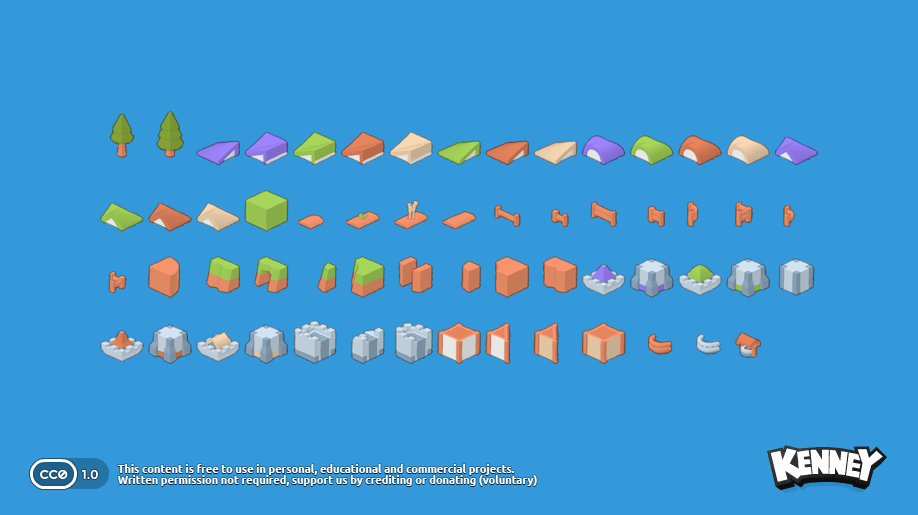
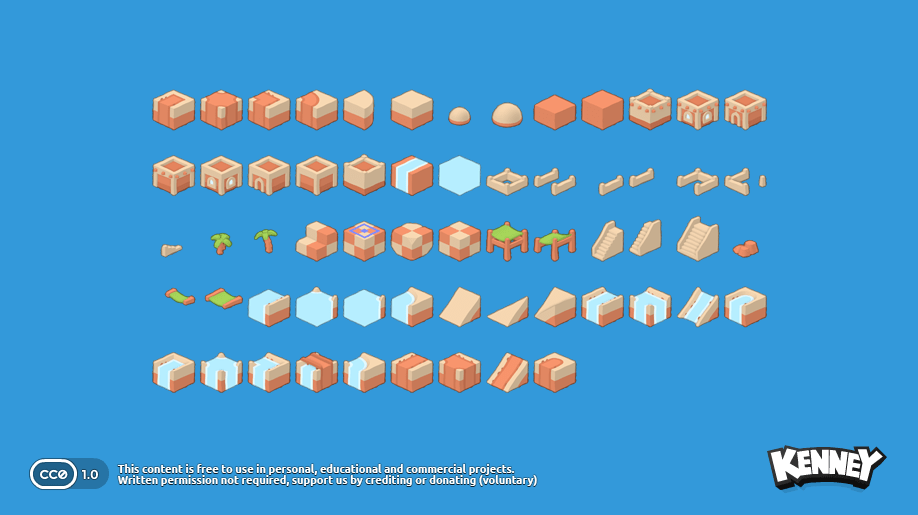
Add files via upload

Changed region(s): [[0.0915, 0.1553, 0.8845, 0.7767], [0.854, 0.4039, 0.8845, 0.435]]

diff --git a/map_tiles.tsx b/map_tiles.tsx
@@ -1,0 +1,250 @@
+<?xml version="1.0" encoding="UTF-8"?>
+<tileset version="1.4" tiledversion="1.4.3" name="Example" tilewidth="232" tileheight="110" tilecount="3" columns="0">
+ <tileoffset x="-12" y="6"/>
+ <grid orientation="orthogonal" width="1" height="1"/>
+<tile id='0'><image width='256' height='352' source='../Tiles/building_center_N.png'/></tile>
+<tile id='1'><image width='256' height='352' source='../Tiles/building_center_E.png'/></tile>
+<tile id='2'><image width='256' height='352' source='../Tiles/building_center_S.png'/></tile>
+<tile id='3'><image width='256' height='352' source='../Tiles/building_center_W.png'/></tile>
+<tile id='4'><image width='256' height='352' source='../Tiles/building_dark_center_N.png'/></tile>
+<tile id='5'><image width='256' height='352' source='../Tiles/building_dark_center_E.png'/></tile>
+<tile id='6'><image width='256' height='352' source='../Tiles/building_dark_center_S.png'/></tile>
+<tile id='7'><image width='256' height='352' source='../Tiles/building_dark_center_W.png'/></tile>
+<tile id='8'><image width='256' height='352' source='../Tiles/building_dark_center_door_N.png'/></tile>
+<tile id='9'><image width='256' height='352' source='../Tiles/building_dark_center_door_E.png'/></tile>
+<tile id='10'><image width='256' height='352' source='../Tiles/building_dark_center_door_S.png'/></tile>
+<tile id='11'><image width='256' height='352' source='../Tiles/building_dark_center_door_W.png'/></tile>
+<tile id='12'><image width='256' height='352' source='../Tiles/building_dark_center_windows_N.png'/></tile>
+<tile id='13'><image width='256' height='352' source='../Tiles/building_dark_center_windows_E.png'/></tile>
+<tile id='14'><image width='256' height='352' source='../Tiles/building_dark_center_windows_S.png'/></tile>
+<tile id='15'><image width='256' height='352' source='../Tiles/building_dark_center_windows_W.png'/></tile>
+<tile id='16'><image width='256' height='352' source='../Tiles/building_dark_sides_N.png'/></tile>
+<tile id='17'><image width='256' height='352' source='../Tiles/building_dark_sides_E.png'/></tile>
+<tile id='18'><image width='256' height='352' source='../Tiles/building_dark_sides_S.png'/></tile>
+<tile id='19'><image width='256' height='352' source='../Tiles/building_dark_sides_W.png'/></tile>
+<tile id='20'><image width='256' height='352' source='../Tiles/building_dark_sides_door_N.png'/></tile>
+<tile id='21'><image width='256' height='352' source='../Tiles/building_dark_sides_door_E.png'/></tile>
+<tile id='22'><image width='256' height='352' source='../Tiles/building_dark_sides_door_S.png'/></tile>
+<tile id='23'><image width='256' height='352' source='../Tiles/building_dark_sides_door_W.png'/></tile>
+<tile id='24'><image width='256' height='352' source='../Tiles/building_dark_sides_windows_N.png'/></tile>
+<tile id='25'><image width='256' height='352' source='../Tiles/building_dark_sides_windows_E.png'/></tile>
+<tile id='26'><image width='256' height='352' source='../Tiles/building_dark_sides_windows_S.png'/></tile>
+<tile id='27'><image width='256' height='352' source='../Tiles/building_dark_sides_windows_W.png'/></tile>
+<tile id='28'><image width='256' height='352' source='../Tiles/building_sides_N.png'/></tile>
+<tile id='29'><image width='256' height='352' source='../Tiles/building_sides_E.png'/></tile>
+<tile id='30'><image width='256' height='352' source='../Tiles/building_sides_S.png'/></tile>
+<tile id='31'><image width='256' height='352' source='../Tiles/building_sides_W.png'/></tile>
+<tile id='32'><image width='256' height='352' source='../Tiles/dirt_center_N.png'/></tile>
+<tile id='33'><image width='256' height='352' source='../Tiles/dirt_center_E.png'/></tile>
+<tile id='34'><image width='256' height='352' source='../Tiles/dirt_center_S.png'/></tile>
+<tile id='35'><image width='256' height='352' source='../Tiles/dirt_center_W.png'/></tile>
+<tile id='36'><image width='256' height='352' source='../Tiles/dirt_low_N.png'/></tile>
+<tile id='37'><image width='256' height='352' source='../Tiles/dirt_low_E.png'/></tile>
+<tile id='38'><image width='256' height='352' source='../Tiles/dirt_low_S.png'/></tile>
+<tile id='39'><image width='256' height='352' source='../Tiles/dirt_low_W.png'/></tile>
+<tile id='40'><image width='256' height='352' source='../Tiles/dome_N.png'/></tile>
+<tile id='41'><image width='256' height='352' source='../Tiles/dome_E.png'/></tile>
+<tile id='42'><image width='256' height='352' source='../Tiles/dome_S.png'/></tile>
+<tile id='43'><image width='256' height='352' source='../Tiles/dome_W.png'/></tile>
+<tile id='44'><image width='256' height='352' source='../Tiles/dome_small_N.png'/></tile>
+<tile id='45'><image width='256' height='352' source='../Tiles/dome_small_E.png'/></tile>
+<tile id='46'><image width='256' height='352' source='../Tiles/dome_small_S.png'/></tile>
+<tile id='47'><image width='256' height='352' source='../Tiles/dome_small_W.png'/></tile>
+<tile id='48'><image width='256' height='352' source='../Tiles/grass_center_N.png'/></tile>
+<tile id='49'><image width='256' height='352' source='../Tiles/grass_center_E.png'/></tile>
+<tile id='50'><image width='256' height='352' source='../Tiles/grass_center_S.png'/></tile>
+<tile id='51'><image width='256' height='352' source='../Tiles/grass_center_W.png'/></tile>
+<tile id='52'><image width='256' height='352' source='../Tiles/grass_corner_N.png'/></tile>
+<tile id='53'><image width='256' height='352' source='../Tiles/grass_corner_E.png'/></tile>
+<tile id='54'><image width='256' height='352' source='../Tiles/grass_corner_S.png'/></tile>
+<tile id='55'><image width='256' height='352' source='../Tiles/grass_corner_W.png'/></tile>
+<tile id='56'><image width='256' height='352' source='../Tiles/grass_path_N.png'/></tile>
+<tile id='57'><image width='256' height='352' source='../Tiles/grass_path_E.png'/></tile>
+<tile id='58'><image width='256' height='352' source='../Tiles/grass_path_S.png'/></tile>
+<tile id='59'><image width='256' height='352' source='../Tiles/grass_path_W.png'/></tile>
+<tile id='60'><image width='256' height='352' source='../Tiles/grass_pathBend_N.png'/></tile>
+<tile id='61'><image width='256' height='352' source='../Tiles/grass_pathBend_E.png'/></tile>
+<tile id='62'><image width='256' height='352' source='../Tiles/grass_pathBend_S.png'/></tile>
+<tile id='63'><image width='256' height='352' source='../Tiles/grass_pathBend_W.png'/></tile>
+<tile id='64'><image width='256' height='352' source='../Tiles/grass_pathCorner_N.png'/></tile>
+<tile id='65'><image width='256' height='352' source='../Tiles/grass_pathCorner_E.png'/></tile>
+<tile id='66'><image width='256' height='352' source='../Tiles/grass_pathCorner_S.png'/></tile>
+<tile id='67'><image width='256' height='352' source='../Tiles/grass_pathCorner_W.png'/></tile>
+<tile id='68'><image width='256' height='352' source='../Tiles/grass_pathCrossing_N.png'/></tile>
+<tile id='69'><image width='256' height='352' source='../Tiles/grass_pathCrossing_E.png'/></tile>
+<tile id='70'><image width='256' height='352' source='../Tiles/grass_pathCrossing_S.png'/></tile>
+<tile id='71'><image width='256' height='352' source='../Tiles/grass_pathCrossing_W.png'/></tile>
+<tile id='72'><image width='256' height='352' source='../Tiles/grass_pathEnd_N.png'/></tile>
+<tile id='73'><image width='256' height='352' source='../Tiles/grass_pathEnd_E.png'/></tile>
+<tile id='74'><image width='256' height='352' source='../Tiles/grass_pathEnd_S.png'/></tile>
+<tile id='75'><image width='256' height='352' source='../Tiles/grass_pathEnd_W.png'/></tile>
+<tile id='76'><image width='256' height='352' source='../Tiles/grass_pathEndSquare_N.png'/></tile>
+<tile id='77'><image width='256' height='352' source='../Tiles/grass_pathEndSquare_E.png'/></tile>
+<tile id='78'><image width='256' height='352' source='../Tiles/grass_pathEndSquare_S.png'/></tile>
+<tile id='79'><image width='256' height='352' source='../Tiles/grass_pathEndSquare_W.png'/></tile>
+<tile id='80'><image width='256' height='352' source='../Tiles/grass_pathSlope_N.png'/></tile>
+<tile id='81'><image width='256' height='352' source='../Tiles/grass_pathSlope_E.png'/></tile>
+<tile id='82'><image width='256' height='352' source='../Tiles/grass_pathSlope_S.png'/></tile>
+<tile id='83'><image width='256' height='352' source='../Tiles/grass_pathSlope_W.png'/></tile>
+<tile id='84'><image width='256' height='352' source='../Tiles/grass_pathSplit_N.png'/></tile>
+<tile id='85'><image width='256' height='352' source='../Tiles/grass_pathSplit_E.png'/></tile>
+<tile id='86'><image width='256' height='352' source='../Tiles/grass_pathSplit_S.png'/></tile>
+<tile id='87'><image width='256' height='352' source='../Tiles/grass_pathSplit_W.png'/></tile>
+<tile id='88'><image width='256' height='352' source='../Tiles/grass_river_N.png'/></tile>
+<tile id='89'><image width='256' height='352' source='../Tiles/grass_river_E.png'/></tile>
+<tile id='90'><image width='256' height='352' source='../Tiles/grass_river_S.png'/></tile>
+<tile id='91'><image width='256' height='352' source='../Tiles/grass_river_W.png'/></tile>
+<tile id='92'><image width='256' height='352' source='../Tiles/grass_riverBend_N.png'/></tile>
+<tile id='93'><image width='256' height='352' source='../Tiles/grass_riverBend_E.png'/></tile>
+<tile id='94'><image width='256' height='352' source='../Tiles/grass_riverBend_S.png'/></tile>
+<tile id='95'><image width='256' height='352' source='../Tiles/grass_riverBend_W.png'/></tile>
+<tile id='96'><image width='256' height='352' source='../Tiles/grass_riverBridge_N.png'/></tile>
+<tile id='97'><image width='256' height='352' source='../Tiles/grass_riverBridge_E.png'/></tile>
+<tile id='98'><image width='256' height='352' source='../Tiles/grass_riverBridge_S.png'/></tile>
+<tile id='99'><image width='256' height='352' source='../Tiles/grass_riverBridge_W.png'/></tile>
+<tile id='100'><image width='256' height='352' source='../Tiles/grass_riverCorner_N.png'/></tile>
+<tile id='101'><image width='256' height='352' source='../Tiles/grass_riverCorner_E.png'/></tile>
+<tile id='102'><image width='256' height='352' source='../Tiles/grass_riverCorner_S.png'/></tile>
+<tile id='103'><image width='256' height='352' source='../Tiles/grass_riverCorner_W.png'/></tile>
+<tile id='104'><image width='256' height='352' source='../Tiles/grass_riverCrossing_N.png'/></tile>
+<tile id='105'><image width='256' height='352' source='../Tiles/grass_riverCrossing_E.png'/></tile>
+<tile id='106'><image width='256' height='352' source='../Tiles/grass_riverCrossing_S.png'/></tile>
+<tile id='107'><image width='256' height='352' source='../Tiles/grass_riverCrossing_W.png'/></tile>
+<tile id='108'><image width='256' height='352' source='../Tiles/grass_riverEnd_N.png'/></tile>
+<tile id='109'><image width='256' height='352' source='../Tiles/grass_riverEnd_E.png'/></tile>
+<tile id='110'><image width='256' height='352' source='../Tiles/grass_riverEnd_S.png'/></tile>
+<tile id='111'><image width='256' height='352' source='../Tiles/grass_riverEnd_W.png'/></tile>
+<tile id='112'><image width='256' height='352' source='../Tiles/grass_riverEndSquare_N.png'/></tile>
+<tile id='113'><image width='256' height='352' source='../Tiles/grass_riverEndSquare_E.png'/></tile>
+<tile id='114'><image width='256' height='352' source='../Tiles/grass_riverEndSquare_S.png'/></tile>
+<tile id='115'><image width='256' height='352' source='../Tiles/grass_riverEndSquare_W.png'/></tile>
+<tile id='116'><image width='256' height='352' source='../Tiles/grass_riverSlope_N.png'/></tile>
+<tile id='117'><image width='256' height='352' source='../Tiles/grass_riverSlope_E.png'/></tile>
+<tile id='118'><image width='256' height='352' source='../Tiles/grass_riverSlope_S.png'/></tile>
+<tile id='119'><image width='256' height='352' source='../Tiles/grass_riverSlope_W.png'/></tile>
+<tile id='120'><image width='256' height='352' source='../Tiles/grass_riverSplit_N.png'/></tile>
+<tile id='121'><image width='256' height='352' source='../Tiles/grass_riverSplit_E.png'/></tile>
+<tile id='122'><image width='256' height='352' source='../Tiles/grass_riverSplit_S.png'/></tile>
+<tile id='123'><image width='256' height='352' source='../Tiles/grass_riverSplit_W.png'/></tile>
+<tile id='124'><image width='256' height='352' source='../Tiles/grass_slope_N.png'/></tile>
+<tile id='125'><image width='256' height='352' source='../Tiles/grass_slope_E.png'/></tile>
+<tile id='126'><image width='256' height='352' source='../Tiles/grass_slope_S.png'/></tile>
+<tile id='127'><image width='256' height='352' source='../Tiles/grass_slope_W.png'/></tile>
+<tile id='128'><image width='256' height='352' source='../Tiles/grass_slopeConcave_N.png'/></tile>
+<tile id='129'><image width='256' height='352' source='../Tiles/grass_slopeConcave_E.png'/></tile>
+<tile id='130'><image width='256' height='352' source='../Tiles/grass_slopeConcave_S.png'/></tile>
+<tile id='131'><image width='256' height='352' source='../Tiles/grass_slopeConcave_W.png'/></tile>
+<tile id='132'><image width='256' height='352' source='../Tiles/grass_slopeConvex_N.png'/></tile>
+<tile id='133'><image width='256' height='352' source='../Tiles/grass_slopeConvex_E.png'/></tile>
+<tile id='134'><image width='256' height='352' source='../Tiles/grass_slopeConvex_S.png'/></tile>
+<tile id='135'><image width='256' height='352' source='../Tiles/grass_slopeConvex_W.png'/></tile>
+<tile id='136'><image width='256' height='352' source='../Tiles/grass_water_N.png'/></tile>
+<tile id='137'><image width='256' height='352' source='../Tiles/grass_water_E.png'/></tile>
+<tile id='138'><image width='256' height='352' source='../Tiles/grass_water_S.png'/></tile>
+<tile id='139'><image width='256' height='352' source='../Tiles/grass_water_W.png'/></tile>
+<tile id='140'><image width='256' height='352' source='../Tiles/grass_waterConcave_N.png'/></tile>
+<tile id='141'><image width='256' height='352' source='../Tiles/grass_waterConcave_E.png'/></tile>
+<tile id='142'><image width='256' height='352' source='../Tiles/grass_waterConcave_S.png'/></tile>
+<tile id='143'><image width='256' height='352' source='../Tiles/grass_waterConcave_W.png'/></tile>
+<tile id='144'><image width='256' height='352' source='../Tiles/grass_waterConvex_N.png'/></tile>
+<tile id='145'><image width='256' height='352' source='../Tiles/grass_waterConvex_E.png'/></tile>
+<tile id='146'><image width='256' height='352' source='../Tiles/grass_waterConvex_S.png'/></tile>
+<tile id='147'><image width='256' height='352' source='../Tiles/grass_waterConvex_W.png'/></tile>
+<tile id='148'><image width='256' height='352' source='../Tiles/grass_waterRiver_N.png'/></tile>
+<tile id='149'><image width='256' height='352' source='../Tiles/grass_waterRiver_E.png'/></tile>
+<tile id='150'><image width='256' height='352' source='../Tiles/grass_waterRiver_S.png'/></tile>
+<tile id='151'><image width='256' height='352' source='../Tiles/grass_waterRiver_W.png'/></tile>
+<tile id='152'><image width='256' height='352' source='../Tiles/overhang_N.png'/></tile>
+<tile id='153'><image width='256' height='352' source='../Tiles/overhang_E.png'/></tile>
+<tile id='154'><image width='256' height='352' source='../Tiles/overhang_S.png'/></tile>
+<tile id='155'><image width='256' height='352' source='../Tiles/overhang_W.png'/></tile>
+<tile id='156'><image width='256' height='352' source='../Tiles/overhang_small_N.png'/></tile>
+<tile id='157'><image width='256' height='352' source='../Tiles/overhang_small_E.png'/></tile>
+<tile id='158'><image width='256' height='352' source='../Tiles/overhang_small_S.png'/></tile>
+<tile id='159'><image width='256' height='352' source='../Tiles/overhang_small_W.png'/></tile>
+<tile id='160'><image width='256' height='352' source='../Tiles/rocks_N.png'/></tile>
+<tile id='161'><image width='256' height='352' source='../Tiles/rocks_E.png'/></tile>
+<tile id='162'><image width='256' height='352' source='../Tiles/rocks_S.png'/></tile>
+<tile id='163'><image width='256' height='352' source='../Tiles/rocks_W.png'/></tile>
+<tile id='164'><image width='256' height='352' source='../Tiles/stairs_full_N.png'/></tile>
+<tile id='165'><image width='256' height='352' source='../Tiles/stairs_full_E.png'/></tile>
+<tile id='166'><image width='256' height='352' source='../Tiles/stairs_full_S.png'/></tile>
+<tile id='167'><image width='256' height='352' source='../Tiles/stairs_full_W.png'/></tile>
+<tile id='168'><image width='256' height='352' source='../Tiles/stairs_left_N.png'/></tile>
+<tile id='169'><image width='256' height='352' source='../Tiles/stairs_left_E.png'/></tile>
+<tile id='170'><image width='256' height='352' source='../Tiles/stairs_left_S.png'/></tile>
+<tile id='171'><image width='256' height='352' source='../Tiles/stairs_left_W.png'/></tile>
+<tile id='172'><image width='256' height='352' source='../Tiles/stairs_right_N.png'/></tile>
+<tile id='173'><image width='256' height='352' source='../Tiles/stairs_right_E.png'/></tile>
+<tile id='174'><image width='256' height='352' source='../Tiles/stairs_right_S.png'/></tile>
+<tile id='175'><image width='256' height='352' source='../Tiles/stairs_right_W.png'/></tile>
+<tile id='176'><image width='256' height='352' source='../Tiles/structure_tent_N.png'/></tile>
+<tile id='177'><image width='256' height='352' source='../Tiles/structure_tent_E.png'/></tile>
+<tile id='178'><image width='256' height='352' source='../Tiles/structure_tent_S.png'/></tile>
+<tile id='179'><image width='256' height='352' source='../Tiles/structure_tent_W.png'/></tile>
+<tile id='180'><image width='256' height='352' source='../Tiles/structure_tentSlant_N.png'/></tile>
+<tile id='181'><image width='256' height='352' source='../Tiles/structure_tentSlant_E.png'/></tile>
+<tile id='182'><image width='256' height='352' source='../Tiles/structure_tentSlant_S.png'/></tile>
+<tile id='183'><image width='256' height='352' source='../Tiles/structure_tentSlant_W.png'/></tile>
+<tile id='184'><image width='256' height='352' source='../Tiles/tiles_N.png'/></tile>
+<tile id='185'><image width='256' height='352' source='../Tiles/tiles_E.png'/></tile>
+<tile id='186'><image width='256' height='352' source='../Tiles/tiles_S.png'/></tile>
+<tile id='187'><image width='256' height='352' source='../Tiles/tiles_W.png'/></tile>
+<tile id='188'><image width='256' height='352' source='../Tiles/tiles_crumbled_N.png'/></tile>
+<tile id='189'><image width='256' height='352' source='../Tiles/tiles_crumbled_E.png'/></tile>
+<tile id='190'><image width='256' height='352' source='../Tiles/tiles_crumbled_S.png'/></tile>
+<tile id='191'><image width='256' height='352' source='../Tiles/tiles_crumbled_W.png'/></tile>
+<tile id='192'><image width='256' height='352' source='../Tiles/tiles_decorated_N.png'/></tile>
+<tile id='193'><image width='256' height='352' source='../Tiles/tiles_decorated_E.png'/></tile>
+<tile id='194'><image width='256' height='352' source='../Tiles/tiles_decorated_S.png'/></tile>
+<tile id='195'><image width='256' height='352' source='../Tiles/tiles_decorated_W.png'/></tile>
+<tile id='196'><image width='256' height='352' source='../Tiles/tiles_steps_N.png'/></tile>
+<tile id='197'><image width='256' height='352' source='../Tiles/tiles_steps_E.png'/></tile>
+<tile id='198'><image width='256' height='352' source='../Tiles/tiles_steps_S.png'/></tile>
+<tile id='199'><image width='256' height='352' source='../Tiles/tiles_steps_W.png'/></tile>
+<tile id='200'><image width='256' height='352' source='../Tiles/tree_N.png'/></tile>
+<tile id='201'><image width='256' height='352' source='../Tiles/tree_E.png'/></tile>
+<tile id='202'><image width='256' height='352' source='../Tiles/tree_S.png'/></tile>
+<tile id='203'><image width='256' height='352' source='../Tiles/tree_W.png'/></tile>
+<tile id='204'><image width='256' height='352' source='../Tiles/trees_N.png'/></tile>
+<tile id='205'><image width='256' height='352' source='../Tiles/trees_E.png'/></tile>
+<tile id='206'><image width='256' height='352' source='../Tiles/trees_S.png'/></tile>
+<tile id='207'><image width='256' height='352' source='../Tiles/trees_W.png'/></tile>
+<tile id='208'><image width='256' height='352' source='../Tiles/walls_broken_N.png'/></tile>
+<tile id='209'><image width='256' height='352' source='../Tiles/walls_broken_E.png'/></tile>
+<tile id='210'><image width='256' height='352' source='../Tiles/walls_broken_S.png'/></tile>
+<tile id='211'><image width='256' height='352' source='../Tiles/walls_broken_W.png'/></tile>
+<tile id='212'><image width='256' height='352' source='../Tiles/walls_corner_N.png'/></tile>
+<tile id='213'><image width='256' height='352' source='../Tiles/walls_corner_E.png'/></tile>
+<tile id='214'><image width='256' height='352' source='../Tiles/walls_corner_S.png'/></tile>
+<tile id='215'><image width='256' height='352' source='../Tiles/walls_corner_W.png'/></tile>
+<tile id='216'><image width='256' height='352' source='../Tiles/walls_end_N.png'/></tile>
+<tile id='217'><image width='256' height='352' source='../Tiles/walls_end_E.png'/></tile>
+<tile id='218'><image width='256' height='352' source='../Tiles/walls_end_S.png'/></tile>
+<tile id='219'><image width='256' height='352' source='../Tiles/walls_end_W.png'/></tile>
+<tile id='220'><image width='256' height='352' source='../Tiles/walls_left_N.png'/></tile>
+<tile id='221'><image width='256' height='352' source='../Tiles/walls_left_E.png'/></tile>
+<tile id='222'><image width='256' height='352' source='../Tiles/walls_left_S.png'/></tile>
+<tile id='223'><image width='256' height='352' source='../Tiles/walls_left_W.png'/></tile>
+<tile id='224'><image width='256' height='352' source='../Tiles/walls_right_N.png'/></tile>
+<tile id='225'><image width='256' height='352' source='../Tiles/walls_right_E.png'/></tile>
+<tile id='226'><image width='256' height='352' source='../Tiles/walls_right_S.png'/></tile>
+<tile id='227'><image width='256' height='352' source='../Tiles/walls_right_W.png'/></tile>
+<tile id='228'><image width='256' height='352' source='../Tiles/walls_sides_N.png'/></tile>
+<tile id='229'><image width='256' height='352' source='../Tiles/walls_sides_E.png'/></tile>
+<tile id='230'><image width='256' height='352' source='../Tiles/walls_sides_S.png'/></tile>
+<tile id='231'><image width='256' height='352' source='../Tiles/walls_sides_W.png'/></tile>
+<tile id='232'><image width='256' height='352' source='../Tiles/walls_square_N.png'/></tile>
+<tile id='233'><image width='256' height='352' source='../Tiles/walls_square_E.png'/></tile>
+<tile id='234'><image width='256' height='352' source='../Tiles/walls_square_S.png'/></tile>
+<tile id='235'><image width='256' height='352' source='../Tiles/walls_square_W.png'/></tile>
+<tile id='236'><image width='256' height='352' source='../Tiles/water_center_N.png'/></tile>
+<tile id='237'><image width='256' height='352' source='../Tiles/water_center_E.png'/></tile>
+<tile id='238'><image width='256' height='352' source='../Tiles/water_center_S.png'/></tile>
+<tile id='239'><image width='256' height='352' source='../Tiles/water_center_W.png'/></tile>
+<tile id='240'><image width='256' height='352' source='../Tiles/water_fall_N.png'/></tile>
+<tile id='241'><image width='256' height='352' source='../Tiles/water_fall_E.png'/></tile>
+<tile id='242'><image width='256' height='352' source='../Tiles/water_fall_S.png'/></tile>
+<tile id='243'><image width='256' height='352' source='../Tiles/water_fall_W.png'/></tile>
+
+</tileset>

diff --git a/Overview.html b/Overview.html
@@ -4,7 +4,7 @@
 <head>
 	<meta charset="utf-8">
 
-	<title>Sketch Town Expansion</title>
+	<title>Sketch Desert</title>
 	
 	<meta name="description" content="Game assets overview">
 	<meta name="author" content="Kenney">
@@ -13,7 +13,7 @@
 
 <body>
 
-	<div class='container header'><h1>Sketch Town Expansion</h1></div>
+	<div class='container header'><h1>Sketch Desert</h1></div>
 	
 	<div class='container content'>
 	
@@ -22,7 +22,7 @@
 		<ul>
 			<li><strong>Image size</strong> 256 × 352 px</li>
 			<li><strong>Camera angle</strong> <a href='https://en.wikipedia.org/wiki/Isometric_video_game_graphics#/media/File:Isometric_camera_view_30_degrees_color.png'>26.565° × 45° × 0°</a></li>
-			<li><strong>Tiles</strong> 59×</li>
+			<li><strong>Tiles</strong> 61×</li>
 		</ul>
 		
 	</div>
@@ -31,7 +31,7 @@
 	
 		<p><strong>Tiles</strong></p>
 		
-		<div class='package'><img src='Tiles/balcony_stone_N.png'/>balcony_stone_N</div><div class='package'><img src='Tiles/balcony_wood_N.png'/>balcony_wood_N</div><div class='package'><img src='Tiles/building_stack_N.png'/>building_stack_N</div><div class='package'><img src='Tiles/building_stackBeige_N.png'/>building_stackBeige_N</div><div class='package'><img src='Tiles/building_stackCorner_N.png'/>building_stackCorner_N</div><div class='package'><img src='Tiles/building_stackCornerBeige_N.png'/>building_stackCornerBeige_N</div><div class='package'><img src='Tiles/castle_end_N.png'/>castle_end_N</div><div class='package'><img src='Tiles/castle_endRound_N.png'/>castle_endRound_N</div><div class='package'><img src='Tiles/castle_endRuined_N.png'/>castle_endRuined_N</div><div class='package'><img src='Tiles/castle_towerBeigeBase_N.png'/>castle_towerBeigeBase_N</div><div class='package'><img src='Tiles/castle_towerBeigeTop_N.png'/>castle_towerBeigeTop_N</div><div class='package'><img src='Tiles/castle_towerBrownBase_N.png'/>castle_towerBrownBase_N</div><div class='package'><img src='Tiles/castle_towerBrownTop_N.png'/>castle_towerBrownTop_N</div><div class='package'><img src='Tiles/castle_towerCenter_N.png'/>castle_towerCenter_N</div><div class='package'><img src='Tiles/castle_towerGreenBase_N.png'/>castle_towerGreenBase_N</div><div class='package'><img src='Tiles/castle_towerGreenTop_N.png'/>castle_towerGreenTop_N</div><div class='package'><img src='Tiles/castle_towerPurpleBase_N.png'/>castle_towerPurpleBase_N</div><div class='package'><img src='Tiles/castle_towerPurpleTop_N.png'/>castle_towerPurpleTop_N</div><div class='package'><img src='Tiles/cliff_N.png'/>cliff_N</div><div class='package'><img src='Tiles/cliff_corner_N.png'/>cliff_corner_N</div><div class='package'><img src='Tiles/cliff_cornerInner_N.png'/>cliff_cornerInner_N</div><div class='package'><img src='Tiles/cliff_entrance_N.png'/>cliff_entrance_N</div><div class='package'><img src='Tiles/cliff_top_N.png'/>cliff_top_N</div><div class='package'><img src='Tiles/cliff_topCorner_N.png'/>cliff_topCorner_N</div><div class='package'><img src='Tiles/cliff_topCornerInner_N.png'/>cliff_topCornerInner_N</div><div class='package'><img src='Tiles/cliff_topEntrance_N.png'/>cliff_topEntrance_N</div><div class='package'><img src='Tiles/dirt_corner_N.png'/>dirt_corner_N</div><div class='package'><img src='Tiles/fence_wood_N.png'/>fence_wood_N</div><div class='package'><img src='Tiles/fence_woodCorner_N.png'/>fence_woodCorner_N</div><div class='package'><img src='Tiles/fence_woodCurve_N.png'/>fence_woodCurve_N</div><div class='package'><img src='Tiles/fence_woodDouble_N.png'/>fence_woodDouble_N</div><div class='package'><img src='Tiles/fence_woodDoubleCorner_N.png'/>fence_woodDoubleCorner_N</div><div class='package'><img src='Tiles/fence_woodDoubleCurve_N.png'/>fence_woodDoubleCurve_N</div><div class='package'><img src='Tiles/fence_woodDoubleEnd_N.png'/>fence_woodDoubleEnd_N</div><div class='package'><img src='Tiles/fence_woodEnd_N.png'/>fence_woodEnd_N</div><div class='package'><img src='Tiles/furrow_N.png'/>furrow_N</div><div class='package'><img src='Tiles/furrow_crop_N.png'/>furrow_crop_N</div><div class='package'><img src='Tiles/furrow_cropWheat_N.png'/>furrow_cropWheat_N</div><div class='package'><img src='Tiles/furrow_end_N.png'/>furrow_end_N</div><div class='package'><img src='Tiles/grass_block_N.png'/>grass_block_N</div><div class='package'><img src='Tiles/roof_gableCornerBeige_N.png'/>roof_gableCornerBeige_N</div><div class='package'><img src='Tiles/roof_gableCornerBrown_N.png'/>roof_gableCornerBrown_N</div><div class='package'><img src='Tiles/roof_gableCornerGreen_N.png'/>roof_gableCornerGreen_N</div><div class='package'><img src='Tiles/roof_gableCornerPurple_N.png'/>roof_gableCornerPurple_N</div><div class='package'><img src='Tiles/roof_roundCornerBeige_N.png'/>roof_roundCornerBeige_N</div><div class='package'><img src='Tiles/roof_roundCornerBrown_N.png'/>roof_roundCornerBrown_N</div><div class='package'><img src='Tiles/roof_roundCornerGreen_N.png'/>roof_roundCornerGreen_N</div><div class='package'><img src='Tiles/roof_roundCornerPurple_N.png'/>roof_roundCornerPurple_N</div><div class='package'><img src='Tiles/roof_slantCornerBeige_N.png'/>roof_slantCornerBeige_N</div><div class='package'><img src='Tiles/roof_slantCornerBrown_N.png'/>roof_slantCornerBrown_N</div><div class='package'><img src='Tiles/roof_slantCornerGreen_N.png'/>roof_slantCornerGreen_N</div><div class='package'><img src='Tiles/roof_slantCornerInnerBeige_N.png'/>roof_slantCornerInnerBeige_N</div><div class='package'><img src='Tiles/roof_slantCornerInnerBrown_N.png'/>roof_slantCornerInnerBrown_N</div><div class='package'><img src='Tiles/roof_slantCornerInnerGreen_N.png'/>roof_slantCornerInnerGreen_N</div><div class='package'><img src='Tiles/roof_slantCornerInnerPurple_N.png'/>roof_slantCornerInnerPurple_N</div><div class='package'><img src='Tiles/roof_slantCornerPurple_N.png'/>roof_slantCornerPurple_N</div><div class='package'><img src='Tiles/tree_pine_N.png'/>tree_pine_N</div><div class='package'><img src='Tiles/tree_pineLarge_N.png'/>tree_pineLarge_N</div><div class='package'><img src='Tiles/well_N.png'/>well_N</div>
+		<div class='package'><img src='Tiles/building_center_N.png'/>building_center_N</div><div class='package'><img src='Tiles/building_dark_center_N.png'/>building_dark_center_N</div><div class='package'><img src='Tiles/building_dark_center_door_N.png'/>building_dark_center_door_N</div><div class='package'><img src='Tiles/building_dark_center_windows_N.png'/>building_dark_center_windows_N</div><div class='package'><img src='Tiles/building_dark_sides_N.png'/>building_dark_sides_N</div><div class='package'><img src='Tiles/building_dark_sides_door_N.png'/>building_dark_sides_door_N</div><div class='package'><img src='Tiles/building_dark_sides_windows_N.png'/>building_dark_sides_windows_N</div><div class='package'><img src='Tiles/building_sides_N.png'/>building_sides_N</div><div class='package'><img src='Tiles/dirt_center_N.png'/>dirt_center_N</div><div class='package'><img src='Tiles/dirt_low_N.png'/>dirt_low_N</div><div class='package'><img src='Tiles/dome_N.png'/>dome_N</div><div class='package'><img src='Tiles/dome_small_N.png'/>dome_small_N</div><div class='package'><img src='Tiles/grass_center_N.png'/>grass_center_N</div><div class='package'><img src='Tiles/grass_corner_N.png'/>grass_corner_N</div><div class='package'><img src='Tiles/grass_path_N.png'/>grass_path_N</div><div class='package'><img src='Tiles/grass_pathBend_N.png'/>grass_pathBend_N</div><div class='package'><img src='Tiles/grass_pathCorner_N.png'/>grass_pathCorner_N</div><div class='package'><img src='Tiles/grass_pathCrossing_N.png'/>grass_pathCrossing_N</div><div class='package'><img src='Tiles/grass_pathEnd_N.png'/>grass_pathEnd_N</div><div class='package'><img src='Tiles/grass_pathEndSquare_N.png'/>grass_pathEndSquare_N</div><div class='package'><img src='Tiles/grass_pathSlope_N.png'/>grass_pathSlope_N</div><div class='package'><img src='Tiles/grass_pathSplit_N.png'/>grass_pathSplit_N</div><div class='package'><img src='Tiles/grass_river_N.png'/>grass_river_N</div><div class='package'><img src='Tiles/grass_riverBend_N.png'/>grass_riverBend_N</div><div class='package'><img src='Tiles/grass_riverBridge_N.png'/>grass_riverBridge_N</div><div class='package'><img src='Tiles/grass_riverCorner_N.png'/>grass_riverCorner_N</div><div class='package'><img src='Tiles/grass_riverCrossing_N.png'/>grass_riverCrossing_N</div><div class='package'><img src='Tiles/grass_riverEnd_N.png'/>grass_riverEnd_N</div><div class='package'><img src='Tiles/grass_riverEndSquare_N.png'/>grass_riverEndSquare_N</div><div class='package'><img src='Tiles/grass_riverSlope_N.png'/>grass_riverSlope_N</div><div class='package'><img src='Tiles/grass_riverSplit_N.png'/>grass_riverSplit_N</div><div class='package'><img src='Tiles/grass_slope_N.png'/>grass_slope_N</div><div class='package'><img src='Tiles/grass_slopeConcave_N.png'/>grass_slopeConcave_N</div><div class='package'><img src='Tiles/grass_slopeConvex_N.png'/>grass_slopeConvex_N</div><div class='package'><img src='Tiles/grass_water_N.png'/>grass_water_N</div><div class='package'><img src='Tiles/grass_waterConcave_N.png'/>grass_waterConcave_N</div><div class='package'><img src='Tiles/grass_waterConvex_N.png'/>grass_waterConvex_N</div><div class='package'><img src='Tiles/grass_waterRiver_N.png'/>grass_waterRiver_N</div><div class='package'><img src='Tiles/overhang_N.png'/>overhang_N</div><div class='package'><img src='Tiles/overhang_small_N.png'/>overhang_small_N</div><div class='package'><img src='Tiles/rocks_N.png'/>rocks_N</div><div class='package'><img src='Tiles/stairs_full_N.png'/>stairs_full_N</div><div class='package'><img src='Tiles/stairs_left_N.png'/>stairs_left_N</div><div class='package'><img src='Tiles/stairs_right_N.png'/>stairs_right_N</div><div class='package'><img src='Tiles/structure_tent_N.png'/>structure_tent_N</div><div class='package'><img src='Tiles/structure_tentSlant_N.png'/>structure_tentSlant_N</div><div class='package'><img src='Tiles/tiles_N.png'/>tiles_N</div><div class='package'><img src='Tiles/tiles_crumbled_N.png'/>tiles_crumbled_N</div><div class='package'><img src='Tiles/tiles_decorated_N.png'/>tiles_decorated_N</div><div class='package'><img src='Tiles/tiles_steps_N.png'/>tiles_steps_N</div><div class='package'><img src='Tiles/tree_N.png'/>tree_N</div><div class='package'><img src='Tiles/trees_N.png'/>trees_N</div><div class='package'><img src='Tiles/walls_broken_N.png'/>walls_broken_N</div><div class='package'><img src='Tiles/walls_corner_N.png'/>walls_corner_N</div><div class='package'><img src='Tiles/walls_end_N.png'/>walls_end_N</div><div class='package'><img src='Tiles/walls_left_N.png'/>walls_left_N</div><div class='package'><img src='Tiles/walls_right_N.png'/>walls_right_N</div><div class='package'><img src='Tiles/walls_sides_N.png'/>walls_sides_N</div><div class='package'><img src='Tiles/walls_square_N.png'/>walls_square_N</div><div class='package'><img src='Tiles/water_center_N.png'/>water_center_N</div><div class='package'><img src='Tiles/water_fall_N.png'/>water_fall_N</div>
 		
 	</div>
 	